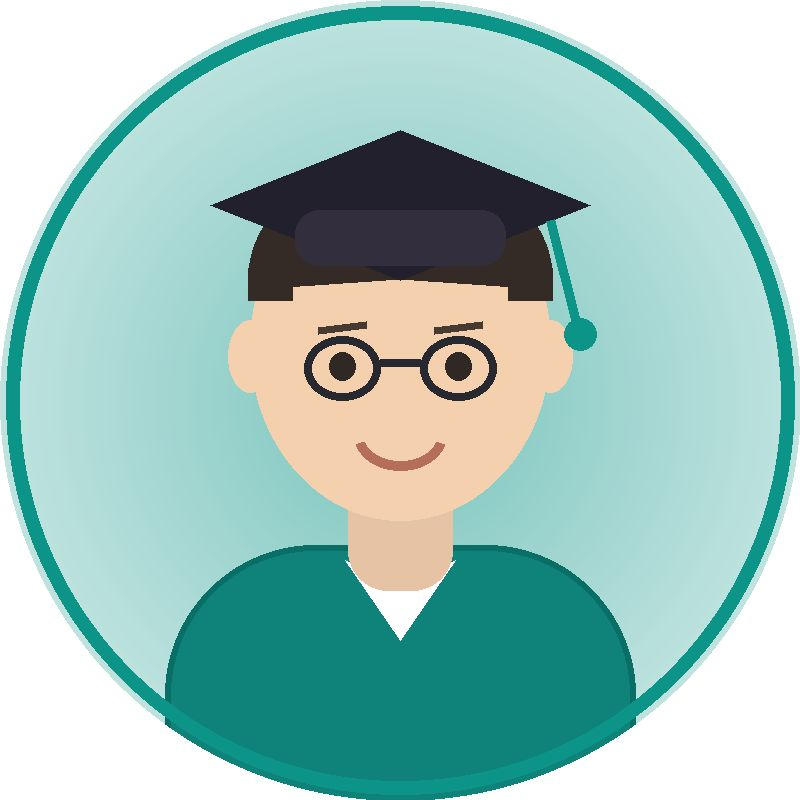
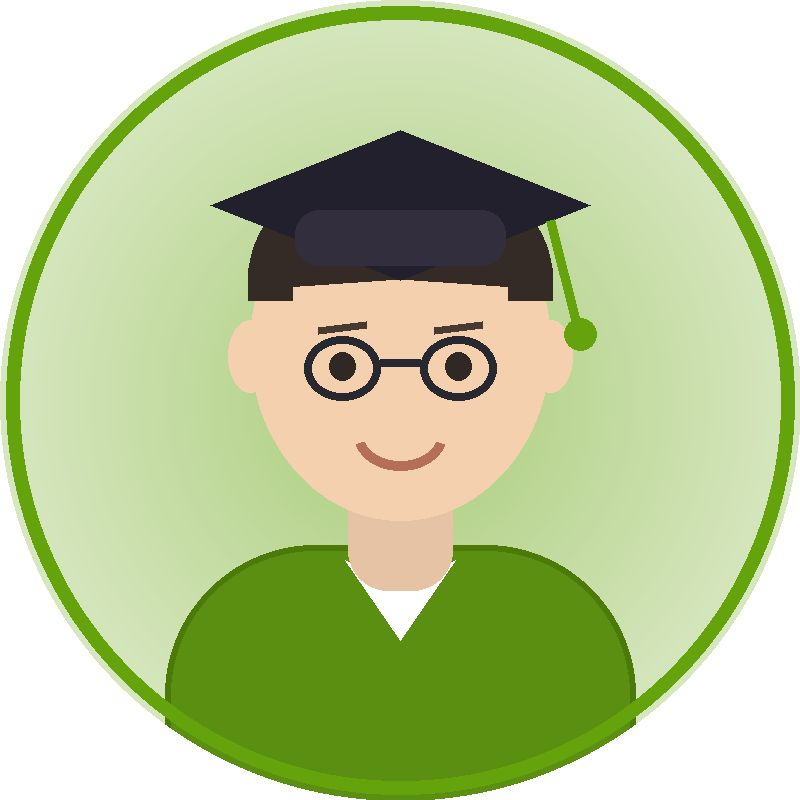
Unique color palette (fuchsia / lime) with regenerated themed images

diff --git a/index.html b/index.html
@@ -1,4 +1,4 @@
-<!DOCTYPE html><html lang='en'><head><meta charset='utf-8'><meta name='viewport' content='width=device-width,initial-scale=1'><title>Dương Tuấn Dũng – Portfolio</title><link rel='preconnect' href='https://fonts.googleapis.com'><link rel='preconnect' href='https://fonts.gstatic.com' crossorigin><link href='https://fonts.googleapis.com/css2?family=Quicksand:wght@500;600;700&display=swap' rel='stylesheet'><style>:root{--acc:#0d9488}
+<!DOCTYPE html><html lang='en'><head><meta charset='utf-8'><meta name='viewport' content='width=device-width,initial-scale=1'><title>Dương Tuấn Dũng – Portfolio</title><link rel='preconnect' href='https://fonts.googleapis.com'><link rel='preconnect' href='https://fonts.gstatic.com' crossorigin><link href='https://fonts.googleapis.com/css2?family=Quicksand:wght@500;600;700&display=swap' rel='stylesheet'><style>:root{--acc:#65a30d}
 *{margin:0;padding:0;box-sizing:border-box}
 img{max-width:100%}
 .container{max-width:1180px;margin:0 auto;padding:0 28px}
@@ -72,40 +72,40 @@ body.lang-en .pane-en{display:block}
 body.lang-en .pane-vi{display:none}
 footer{margin-top:56px;padding:28px 0;text-align:center;font-size:.85rem}
 
-body{font-family:'Quicksand',sans-serif;background:#f3faf8;color:#134e4a;line-height:1.75;
+body{font-family:'Quicksand',sans-serif;background:#f8faf3;color:#344e13;line-height:1.75;
  background-image:radial-gradient(circle at 8% 12%,rgba(13,148,136,.06),transparent 40%),
    radial-gradient(circle at 92% 88%,rgba(16,185,129,.07),transparent 45%)}
 header{padding:88px 0 60px;text-align:center;position:relative;
- background:linear-gradient(165deg,#d7f2ec 0%,#e9f8f4 55%,#f3faf8 100%);border-bottom:2px solid #c9e9e2}
+ background:linear-gradient(165deg,#eaf2d7 0%,#f4f8e9 55%,#f8faf3 100%);border-bottom:2px solid #e0e9c9}
 .avatar{border:5px solid #fff;box-shadow:0 12px 34px rgba(13,148,136,.25);margin-bottom:20px}
-.monogram{border-radius:28px 28px 28px 6px;background:linear-gradient(135deg,#14b8a6,#0f766e);color:#fff;margin-bottom:20px;
+.monogram{border-radius:28px 28px 28px 6px;background:linear-gradient(135deg,#78b814,#4a760f);color:#fff;margin-bottom:20px;
  box-shadow:0 12px 34px rgba(13,148,136,.3)}
-h1{font-size:2.8rem;font-weight:700;color:#0f3d38}
-.school{color:#3f7a72;margin-top:8px;font-weight:600}
-.tagline{margin-top:16px;display:inline-block;background:#fff;border:1px solid #c9e9e2;color:#0f766e;
+h1{font-size:2.8rem;font-weight:700;color:#2b3d0f}
+.school{color:#647a3f;margin-top:8px;font-weight:600}
+.tagline{margin-top:16px;display:inline-block;background:#fff;border:1px solid #e0e9c9;color:#4a760f;
  padding:9px 24px;border-radius:999px;font-size:.93rem;font-weight:700;box-shadow:0 5px 18px rgba(13,148,136,.12)}
 .tagline::before{content:"🪴 "}
-.stat{background:#fff;border:1px solid #d3ede7;border-radius:24px 24px 24px 6px;padding:16px 26px;min-width:170px;box-shadow:0 6px 20px rgba(13,148,136,.08)}
-.stat b{display:block;font-size:1.6rem;color:#0d9488;font-weight:700}
-.stat span{color:#57897f;font-size:.84rem}
-h2{font-size:1.5rem;margin-bottom:22px;color:#0f3d38;font-weight:700;display:flex;align-items:center;gap:10px}
-h2::before{content:"";width:14px;height:26px;border-radius:10px 10px 10px 2px;background:linear-gradient(#2dd4bf,#0f766e);transform:rotate(18deg)}
-.card{background:#fff;border:1px solid #d9efe9;border-radius:22px 22px 22px 6px;padding:22px 26px;margin-bottom:16px;
+.stat{background:#fff;border:1px solid #e6edd3;border-radius:24px 24px 24px 6px;padding:16px 26px;min-width:170px;box-shadow:0 6px 20px rgba(13,148,136,.08)}
+.stat b{display:block;font-size:1.6rem;color:#5c940d;font-weight:700}
+.stat span{color:#7a8957;font-size:.84rem}
+h2{font-size:1.5rem;margin-bottom:22px;color:#2b3d0f;font-weight:700;display:flex;align-items:center;gap:10px}
+h2::before{content:"";width:14px;height:26px;border-radius:10px 10px 10px 2px;background:linear-gradient(#95d42d,#4a760f);transform:rotate(18deg)}
+.card{background:#fff;border:1px solid #eaefd9;border-radius:22px 22px 22px 6px;padding:22px 26px;margin-bottom:16px;
  box-shadow:0 5px 18px rgba(13,148,136,.06);transition:transform .2s,box-shadow .2s}
 .card:hover{transform:translateY(-3px);box-shadow:0 12px 30px rgba(13,148,136,.15)}
-.card h3{font-size:1.1rem;color:#0f3d38;font-weight:700}
-.card .org{color:#57897f;font-size:.9rem}
-.card p{margin-top:10px;color:#2c5f57;font-size:.95rem}
-.badge{display:inline-block;background:#ccfbf1;color:#0f766e;padding:3px 14px;border-radius:999px;font-size:.78rem;font-weight:700;margin-bottom:8px}
-a{color:#0d9488;text-decoration:none}
-.doclinks a{background:#effaf7;border:1px solid #c9e9e2;padding:6px 15px;border-radius:999px;font-size:.85rem;font-weight:600}
-.doclinks a:hover{background:#0f766e;color:#fff;border-color:#0f766e}
+.card h3{font-size:1.1rem;color:#2b3d0f;font-weight:700}
+.card .org{color:#7a8957;font-size:.9rem}
+.card p{margin-top:10px;color:#4d5f2c;font-size:.95rem}
+.badge{display:inline-block;background:#edfbcc;color:#4a760f;padding:3px 14px;border-radius:999px;font-size:.78rem;font-weight:700;margin-bottom:8px}
+a{color:#5c940d;text-decoration:none}
+.doclinks a{background:#f7faef;border:1px solid #e0e9c9;padding:6px 15px;border-radius:999px;font-size:.85rem;font-weight:600}
+.doclinks a:hover{background:#4a760f;color:#fff;border-color:#4a760f}
 .gallery a{border-radius:18px 18px 18px 5px;border:3px solid #fff;box-shadow:0 5px 16px rgba(13,148,136,.12)}
-.research{border-left:5px solid #2dd4bf}
-.doi{font-family:Consolas,monospace;font-size:.85rem;color:#57897f}
-.empty{color:#7ba69d;font-style:italic;background:#fff;border:2px dashed #c9e9e2;border-radius:18px;padding:18px 22px}
-footer{border-top:2px solid #c9e9e2;color:#7ba69d}
-.lang-switch{background:rgba(255,255,255,.92);border:1px solid #c9e9e2;box-shadow:0 4px 14px rgba(13,148,136,.12)}
-.lbtn{color:#57897f}.lbtn.active{background:#0d9488;color:#fff}
+.research{border-left:5px solid #95d42d}
+.doi{font-family:Consolas,monospace;font-size:.85rem;color:#7a8957}
+.empty{color:#99a67b;font-style:italic;background:#fff;border:2px dashed #e0e9c9;border-radius:18px;padding:18px 22px}
+footer{border-top:2px solid #e0e9c9;color:#99a67b}
+.lang-switch{background:rgba(255,255,255,.92);border:1px solid #e0e9c9;box-shadow:0 4px 14px rgba(13,148,136,.12)}
+.lbtn{color:#7a8957}.lbtn.active{background:#5c940d;color:#fff}
 .certimg{border-radius:18px;border:3px solid #fff;box-shadow:0 5px 16px rgba(13,148,136,.12)}
 </style></head><body class='lay-split aw-grid act-zig'><div class='lang-switch'><button class='lbtn' data-l='en'>EN</button><button class='lbtn' data-l='vi'>VI</button></div><div class='pane-vi' lang='vi'><header><div class='container'><img class='avatar' src='assets/img/avatar.jpg' alt='Dương Tuấn Dũng'><h1>Dương Tuấn Dũng</h1><div class='school'>THPT chuyên Hà Nội – Amsterdam · Lớp 11</div><div class='tagline'>SAT 1540 (Math 800) · Gold Award ICPC 2026 · Smart Plant Pot maker</div><div class='stats'><div class='stat'><b>1540</b><span>SAT (Math 800)</span></div><div class='stat'><b>Gold</b><span>ICPC 2026 – Hàn Quốc</span></div><div class='stat'><b>Giải Nhì</b><span>HSG TP Hà Nội – Toán</span></div></div></div></header><nav class='topnav'><a href='#about-vi'>Giới thiệu</a><a href='#certs-vi'>Chứng chỉ</a><a href='#awards-vi'>Thành tích</a><a href='#activities-vi'>Hoạt động</a><a href='#skills-vi'>Kỹ năng</a><a href='#journey-vi'>Hành trình</a></nav><main class='container'><section id='about-vi'><h2>Giới thiệu</h2><div class='card'><p style='margin-top:0'>Mình là Dương Tuấn Dũng, học sinh lớp 11 trường THPT chuyên Hà Nội – Amsterdam. Mình mạnh về Toán — giải Nhì Học sinh giỏi Thành phố Hà Nội môn Toán lớp 9 và SAT 1540/1600 với điểm Toán tuyệt đối 800. Năm 2026, đội của mình đạt Gold Award tại ICPC (Hàn Quốc) với hệ thống cảnh báo sớm sạt lở đất bằng Machine Learning. Mình cũng tự chế tạo “Chậu cây thông minh” trên ESP32 với màn hình TFT và giao diện LVGL, làm Phó ban CLB STEM, chơi cờ vua thi đấu và tham gia nhiều hoạt động thiện nguyện.</p><blockquote class='quote'>“Chăm một chậu cây cũng như giải một bài toán — cần quan sát, kiên nhẫn và đúng ngưỡng.”</blockquote></div></section><section id='certs-vi'><h2>Chứng chỉ chuẩn hóa</h2><div class='certgrid'><div class='card'><h3>SAT 1540/1600</h3><p>Reading &amp; Writing 740 · Math 800 (điểm tuyệt đối) · Kỳ thi 06/12/2025 (lớp 11)</p></div></div><img class='certimg' src='assets/img/sat-score.jpg' alt='SAT score'></section><section id='awards-vi'><h2>Thành tích & Giải thưởng</h2><div class='awgrid'><div class='card award reveal rk-gold'><div class='medal'>🥇</div><div class='awbody'><span class='rklab'>Vàng · Gold</span><h3>Gold Award – International Creative Papers Conference &amp; Olympic (ICPC 2026), Hàn Quốc</h3><div class='org'>Dự án nhóm “Landslide Early Warning System Using Machine Learning” · Korea University Invention Association · 16–17/01/2026</div></div><a class='awthumb' href='assets/img/award-gold-award-international-creative-papers-conferenc.jpg'><img src='assets/img/award-gold-award-international-creative-papers-conferenc.jpg' alt='Gold Award – International Creative Papers Conference &amp; Olympic (ICPC 2026), Hàn Quốc' loading='lazy'></a></div><div class='card award reveal rk-silver'><div class='medal'>🥈</div><div class='awbody'><span class='rklab'>Bạc · Silver</span><h3>Giải Nhì kỳ thi chọn HSG Thành phố các môn văn hóa lớp 9 – môn Toán (2023–2024)</h3><div class='org'>Sở GD&amp;ĐT Hà Nội – THCS Cầu Giấy</div></div><a class='awthumb' href='assets/img/award-giai-nhi-ky-thi-chon-hsg-thanh-pho-cac-mon-van-hoa.jpg'><img src='assets/img/award-giai-nhi-ky-thi-chon-hsg-thanh-pho-cac-mon-van-hoa.jpg' alt='Giải Nhì kỳ thi chọn HSG Thành phố các môn văn hóa lớp 9 – môn Toán (2023–2024)' loading='lazy'></a></div><div class='card award reveal rk-silver'><div class='medal'>🥈</div><div class='awbody'><span class='rklab'>Bạc · Silver</span><h3>Giải Nhì kỳ thi HSG cấp Quận môn Toán</h3><div class='org'>Quận Cầu Giấy</div></div><a class='awthumb' href='assets/img/award-giai-nhi-ky-thi-hsg-cap-quan-mon-toan.jpg'><img src='assets/img/award-giai-nhi-ky-thi-hsg-cap-quan-mon-toan.jpg' alt='Giải Nhì kỳ thi HSG cấp Quận môn Toán' loading='lazy'></a></div><div class='card award reveal rk-part'><div class='medal'>🏆</div><div class='awbody'><span class='rklab'>Thành tích</span><h3>Danh hiệu Học sinh xuất sắc</h3></div><a class='awthumb' href='assets/img/award-danh-hieu-hoc-sinh-xuat-sac.jpg'><img src='assets/img/award-danh-hieu-hoc-sinh-xuat-sac.jpg' alt='Danh hiệu Học sinh xuất sắc' loading='lazy'></a></div></div></section><section id='activities-vi'><h2>Hoạt động ngoại khóa & Dự án</h2><div class='actwrap'><div class='card reveal'><h3>Sản phẩm cá nhân: Chậu cây thông minh (ESP32 + TFT/LVGL)</h3><p>Thiết kế và chế tạo chậu cây thông minh theo dõi độ ẩm đất liên tục, hiển thị giao diện đồ họa trên màn TFT và cảnh báo khi đất quá khô hoặc quá ướt — giúp người mới chăm cây không cần kinh nghiệm nông nghiệp.</p><ul class='pts'><li>Vi điều khiển ESP32 đọc cảm biến độ ẩm đất điện dung qua ADC 12-bit, hiệu chuẩn ra phần trăm độ ẩm.</li><li>Màn hình TFT 2.4 inch với giao diện đồ họa xây dựng bằng thư viện LVGL: giá trị số, đơn vị %, trạng thái cây.</li><li>Ngưỡng an toàn cấu hình được theo loại cây: quá khô &lt; 20–30% (cần tưới), ổn định 40–70%, quá ướt &gt; 80–90% (nguy cơ úng rễ).</li><li>Hướng mở rộng: tưới tự động, kết nối WiFi/ứng dụng di động và lưu lịch sử dữ liệu.</li></ul><div class='doclinks'><a href='assets/docs/bao-cao-ky-thuat-pdf.pdf'>📜 Báo cáo kỹ thuật (PDF)</a></div><div class='gallery'><a href='assets/img/act0-0.jpg'><img src='assets/img/act0-0.jpg' alt='Sản phẩm cá nhân: Chậu cây thông minh (ESP32 + TFT/LVGL)' loading='lazy'></a><a href='assets/img/act0-1.jpg'><img src='assets/img/act0-1.jpg' alt='Sản phẩm cá nhân: Chậu cây thông minh (ESP32 + TFT/LVGL)' loading='lazy'></a></div></div><div class='card reveal'><h3>Phó ban CLB STEM</h3><p>Phó ban CLB STEM, tham gia tổ chức các hoạt động khoa học – kỹ thuật cho học sinh.</p><div class='gallery'><a href='assets/img/act1-0.jpg'><img src='assets/img/act1-0.jpg' alt='Phó ban CLB STEM' loading='lazy'></a></div></div><div class='card reveal'><h3>Giải Vô địch Cờ vua miền Bắc 2024</h3><p>Tham gia tranh tài tại Giải Vô địch Cờ vua miền Bắc năm 2024.</p><div class='gallery'><a href='assets/img/act2-0.jpg'><img src='assets/img/act2-0.jpg' alt='Giải Vô địch Cờ vua miền Bắc 2024' loading='lazy'></a></div></div><div class='card reveal'><h3>Chuỗi hoạt động thiện nguyện</h3><p>Quà tặng bệnh nhân phong (2025) · Thắp nến tri ân các anh hùng liệt sĩ (2025) · Mùa đông ấm (2025) · Trung thu “Yêu thương kết nối trái tim” (2023–24).</p><div class='gallery'><a href='assets/img/act3-0.jpg'><img src='assets/img/act3-0.jpg' alt='Chuỗi hoạt động thiện nguyện' loading='lazy'></a><a href='assets/img/act3-1.jpg'><img src='assets/img/act3-1.jpg' alt='Chuỗi hoạt động thiện nguyện' loading='lazy'></a><a href='assets/img/act3-2.jpg'><img src='assets/img/act3-2.jpg' alt='Chuỗi hoạt động thiện nguyện' loading='lazy'></a><a href='assets/img/act3-3.jpg'><img src='assets/img/act3-3.jpg' alt='Chuỗi hoạt động thiện nguyện' loading='lazy'></a></div></div></div></section><div class='twocol'><section id='skills-vi'><h2>Kỹ năng</h2><div class='card reveal'><div class='skillgrid' style='grid-template-columns:1fr'><div class='skill'><span>Toán học<em>92%</em></span><div class='bar'><i style='width:92%'></i></div></div><div class='skill'><span>Lập trình nhúng (ESP32/C)<em>85%</em></span><div class='bar'><i style='width:85%'></i></div></div><div class='skill'><span>Thiết kế giao diện (LVGL)<em>80%</em></span><div class='bar'><i style='width:80%'></i></div></div><div class='skill'><span>Cờ vua<em>85%</em></span><div class='bar'><i style='width:85%'></i></div></div><div class='skill'><span>Tiếng Anh (SAT 1540)<em>90%</em></span><div class='bar'><i style='width:90%'></i></div></div></div><a href='assets/img/skill-radar.jpg'><img class='certimg' style='max-width:100%;margin-top:20px' src='assets/img/skill-radar.jpg' alt='skill radar' loading='lazy'></a></div></section><section><h2>Sở thích & Quan tâm</h2><div class='card'><div class='chips'><span>Toán học</span><span>IoT &amp; cây trồng</span><span>Machine Learning</span><span>Cờ vua</span><span>Thiện nguyện</span></div></div><h2 style='margin-top:26px'>Định hướng tương lai</h2><div class='card'><p style='margin-top:0'>Mình hướng tới ngành Khoa học Máy tính / Toán ứng dụng. Mục tiêu gần là mở rộng chậu cây thông minh với tính năng tưới tự động và kết nối WiFi, đồng thời phát triển tiếp hệ thống cảnh báo sạt lở bằng Machine Learning đã đạt giải tại ICPC 2026.</p></div></section></div><section id='journey-vi'><h2>Hành trình</h2><div class='card reveal'><div class='tl'><div class='tl-item'><span class='tl-year'>2024</span><p>Giải Nhì kỳ thi HSG Thành phố Hà Nội môn Toán lớp 9 (THCS Cầu Giấy) cùng giải Nhì cấp Quận; tham gia Giải Vô địch Cờ vua miền Bắc.</p></div><div class='tl-item'><span class='tl-year'>2025</span><p>SAT 1540/1600 với điểm Toán tuyệt đối 800 (12/2025, lớp 11); hoàn thành sản phẩm cá nhân “Chậu cây thông minh” trên ESP32; Phó ban CLB STEM; chuỗi thiện nguyện: quà tặng bệnh nhân phong, thắp nến tri ân, Mùa đông ấm.</p></div><div class='tl-item'><span class='tl-year'>2026</span><p>Gold Award tại ICPC 2026 (Hàn Quốc) với dự án nhóm “Landslide Early Warning System Using Machine Learning”.</p></div></div><a href='assets/img/journey-roadmap.jpg'><img class='certimg' style='max-width:100%;margin-top:14px' src='assets/img/journey-roadmap.jpg' alt='journey roadmap' loading='lazy'></a></div></section></main><footer>© 2026 Dương Tuấn Dũng · Portfolio học sinh</footer></div><div class='pane-en' lang='en'><header><div class='container'><img class='avatar' src='assets/img/avatar.jpg' alt='Dương Tuấn Dũng'><h1>Dương Tuấn Dũng</h1><div class='school'>Hanoi – Amsterdam High School for the Gifted · Grade 11</div><div class='tagline'>SAT 1540 (Math 800) · ICPC 2026 Gold Award · Smart Plant Pot maker</div><div class='stats'><div class='stat'><b>1540</b><span>SAT (Math 800)</span></div><div class='stat'><b>Gold</b><span>ICPC 2026 – Korea</span></div><div class='stat'><b>2nd Prize</b><span>Hanoi City Contest – Math</span></div></div></div></header><nav class='topnav'><a href='#about-en'>About</a><a href='#certs-en'>Tests</a><a href='#awards-en'>Awards</a><a href='#activities-en'>Activities</a><a href='#skills-en'>Skills</a><a href='#journey-en'>Journey</a></nav><main class='container'><section id='about-en'><h2>About Me</h2><div class='card'><p style='margin-top:0'>I am Duong Tuan Dung, a grade-11 student at Hanoi – Amsterdam High School for the Gifted. Mathematics is my strength — Second Prize at the Hanoi City contest in grade 9 and a 1540/1600 SAT with a perfect 800 in Math. In 2026 my team won the Gold Award at ICPC in Korea with a machine-learning landslide early-warning system. I also built a “Smart Plant Pot” on the ESP32 with a TFT display and LVGL interface, serve as Vice-head of the STEM club, play competitive chess and volunteer regularly.</p><blockquote class='quote'>“Caring for a plant is like solving a math problem — observation, patience and the right thresholds.”</blockquote></div></section><section id='certs-en'><h2>Standardized Tests</h2><div class='certgrid'><div class='card'><h3>SAT 1540/1600</h3><p>Reading &amp; Writing 740 · Math 800 (perfect score) · Taken Dec 6, 2025 (grade 11)</p></div></div><img class='certimg' src='assets/img/sat-score.jpg' alt='SAT score'></section><section id='awards-en'><h2>Honors & Awards</h2><div class='awgrid'><div class='card award reveal rk-gold'><div class='medal'>🥇</div><div class='awbody'><span class='rklab'>Gold</span><h3>Gold Award – International Creative Papers Conference &amp; Olympic (ICPC 2026), Korea</h3><div class='org'>Team project “Landslide Early Warning System Using Machine Learning” · Korea University Invention Association · Jan 16–17, 2026</div></div><a class='awthumb' href='assets/img/award-gold-award-international-creative-papers-conferenc.jpg'><img src='assets/img/award-gold-award-international-creative-papers-conferenc.jpg' alt='Gold Award – International Creative Papers Conference &amp; Olympic (ICPC 2026), Korea' loading='lazy'></a></div><div class='card award reveal rk-silver'><div class='medal'>🥈</div><div class='awbody'><span class='rklab'>Silver</span><h3>Second Prize – Hanoi City Excellent Student Contest in Mathematics, grade 9 (2023–2024)</h3><div class='org'>Hanoi DOET – Cau Giay Secondary School</div></div><a class='awthumb' href='assets/img/award-giai-nhi-ky-thi-chon-hsg-thanh-pho-cac-mon-van-hoa.jpg'><img src='assets/img/award-giai-nhi-ky-thi-chon-hsg-thanh-pho-cac-mon-van-hoa.jpg' alt='Second Prize – Hanoi City Excellent Student Contest in Mathematics, grade 9 (2023–2024)' loading='lazy'></a></div><div class='card award reveal rk-silver'><div class='medal'>🥈</div><div class='awbody'><span class='rklab'>Silver</span><h3>Second Prize – District Excellent Student Contest in Mathematics</h3><div class='org'>Cau Giay District</div></div><a class='awthumb' href='assets/img/award-giai-nhi-ky-thi-hsg-cap-quan-mon-toan.jpg'><img src='assets/img/award-giai-nhi-ky-thi-hsg-cap-quan-mon-toan.jpg' alt='Second Prize – District Excellent Student Contest in Mathematics' loading='lazy'></a></div><div class='card award reveal rk-part'><div class='medal'>🏆</div><div class='awbody'><span class='rklab'>Achievement</span><h3>Outstanding Student title</h3></div><a class='awthumb' href='assets/img/award-danh-hieu-hoc-sinh-xuat-sac.jpg'><img src='assets/img/award-danh-hieu-hoc-sinh-xuat-sac.jpg' alt='Outstanding Student title' loading='lazy'></a></div></div></section><section id='activities-en'><h2>Extracurriculars & Projects</h2><div class='actwrap'><div class='card reveal'><h3>Personal project: Smart Plant Pot (ESP32 + TFT/LVGL)</h3><p>Designed and built a smart plant pot that continuously monitors soil moisture, shows a graphical UI on a TFT display and alerts when soil is too dry or too wet — letting beginners care for plants without gardening expertise.</p><ul class='pts'><li>An ESP32 reads a capacitive soil-moisture sensor via 12-bit ADC, calibrated to a moisture percentage.</li><li>A 2.4-inch TFT display with an LVGL-built graphical interface: numeric value, % unit and plant status.</li><li>Configurable per-plant safe thresholds: too dry below 20–30% (water needed), stable 40–70%, too wet above 80–90% (root-rot risk).</li><li>Planned extensions: automatic watering, WiFi/mobile-app connectivity and data history.</li></ul><div class='doclinks'><a href='assets/docs/bao-cao-ky-thuat-pdf.pdf'>📜 Technical report (PDF)</a></div><div class='gallery'><a href='assets/img/act0-0.jpg'><img src='assets/img/act0-0.jpg' alt='Personal project: Smart Plant Pot (ESP32 + TFT/LVGL)' loading='lazy'></a><a href='assets/img/act0-1.jpg'><img src='assets/img/act0-1.jpg' alt='Personal project: Smart Plant Pot (ESP32 + TFT/LVGL)' loading='lazy'></a></div></div><div class='card reveal'><h3>Vice-head of the STEM Club</h3><p>Vice-head of the STEM club, helping organize science and engineering activities for students.</p><div class='gallery'><a href='assets/img/act1-0.jpg'><img src='assets/img/act1-0.jpg' alt='Vice-head of the STEM Club' loading='lazy'></a></div></div><div class='card reveal'><h3>Northern Vietnam Chess Championship 2024</h3><p>Competed at the 2024 Northern Vietnam Chess Championship.</p><div class='gallery'><a href='assets/img/act2-0.jpg'><img src='assets/img/act2-0.jpg' alt='Northern Vietnam Chess Championship 2024' loading='lazy'></a></div></div><div class='card reveal'><h3>Charity activity series</h3><p>Gifts for leprosy patients (2025) · Gratitude candle-lighting for fallen soldiers (2025) · Warm Winter (2025) · “Hearts Connected” Mid-Autumn program (2023–24).</p><div class='gallery'><a href='assets/img/act3-0.jpg'><img src='assets/img/act3-0.jpg' alt='Charity activity series' loading='lazy'></a><a href='assets/img/act3-1.jpg'><img src='assets/img/act3-1.jpg' alt='Charity activity series' loading='lazy'></a><a href='assets/img/act3-2.jpg'><img src='assets/img/act3-2.jpg' alt='Charity activity series' loading='lazy'></a><a href='assets/img/act3-3.jpg'><img src='assets/img/act3-3.jpg' alt='Charity activity series' loading='lazy'></a></div></div></div></section><div class='twocol'><section id='skills-en'><h2>Skills</h2><div class='card reveal'><div class='skillgrid' style='grid-template-columns:1fr'><div class='skill'><span>Mathematics<em>92%</em></span><div class='bar'><i style='width:92%'></i></div></div><div class='skill'><span>Embedded programming (ESP32/C)<em>85%</em></span><div class='bar'><i style='width:85%'></i></div></div><div class='skill'><span>UI design (LVGL)<em>80%</em></span><div class='bar'><i style='width:80%'></i></div></div><div class='skill'><span>Chess<em>85%</em></span><div class='bar'><i style='width:85%'></i></div></div><div class='skill'><span>English (SAT 1540)<em>90%</em></span><div class='bar'><i style='width:90%'></i></div></div></div><a href='assets/img/skill-radar.jpg'><img class='certimg' style='max-width:100%;margin-top:20px' src='assets/img/skill-radar.jpg' alt='skill radar' loading='lazy'></a></div></section><section><h2>Interests</h2><div class='card'><div class='chips'><span>Mathematics</span><span>IoT &amp; plants</span><span>Machine Learning</span><span>Chess</span><span>Volunteering</span></div></div><h2 style='margin-top:26px'>Future Goals</h2><div class='card'><p style='margin-top:0'>I am aiming for Computer Science / Applied Mathematics. Near-term goals: extending my smart plant pot with automatic watering and WiFi, and further developing the ML landslide early-warning system that won at ICPC 2026.</p></div></section></div><section id='journey-en'><h2>Journey</h2><div class='card reveal'><div class='tl'><div class='tl-item'><span class='tl-year'>2024</span><p>Second Prize at the Hanoi City Mathematics contest, grade 9 (Cau Giay Secondary School) plus a district Second Prize; competed at the Northern Vietnam Chess Championship.</p></div><div class='tl-item'><span class='tl-year'>2025</span><p>Scored 1540/1600 on the SAT with a perfect 800 in Math (Dec 2025, grade 11); completed the “Smart Plant Pot” ESP32 project; Vice-head of the STEM club; charity series: gifts for leprosy patients, gratitude candle-lighting, Warm Winter.</p></div><div class='tl-item'><span class='tl-year'>2026</span><p>Gold Award at ICPC 2026 in Korea with the team project “Landslide Early Warning System Using Machine Learning”.</p></div></div><a href='assets/img/journey-roadmap.jpg'><img class='certimg' style='max-width:100%;margin-top:14px' src='assets/img/journey-roadmap.jpg' alt='journey roadmap' loading='lazy'></a></div></section></main><footer>© 2026 Dương Tuấn Dũng · Student Portfolio</footer></div><script>function setLang(l,save){document.body.classList.toggle('lang-en',l==='en');document.documentElement.lang=l;if(save){try{localStorage.setItem('plang',l)}catch(e){}}document.querySelectorAll('.lbtn').forEach(function(b){b.classList.toggle('active',b.dataset.l===l)});}document.querySelectorAll('.lbtn').forEach(function(b){b.addEventListener('click',function(){setLang(b.dataset.l,true)})});var saved='en';try{saved=localStorage.getItem('plang')||'en'}catch(e){}setLang(saved,false);var io=new IntersectionObserver(function(es){es.forEach(function(x){if(x.isIntersecting){x.target.classList.add('in');io.unobserve(x.target)}})},{threshold:.08});document.querySelectorAll('.reveal').forEach(function(el){io.observe(el)});var lb=document.createElement('div');lb.className='lb';lb.innerHTML='<img>';document.body.appendChild(lb);lb.addEventListener('click',function(){lb.classList.remove('open')});document.querySelectorAll('.gallery a,.awthumb').forEach(function(a){a.addEventListener('click',function(ev){ev.preventDefault();lb.querySelector('img').src=a.getAttribute('href');lb.classList.add('open')})});</script></body></html>
